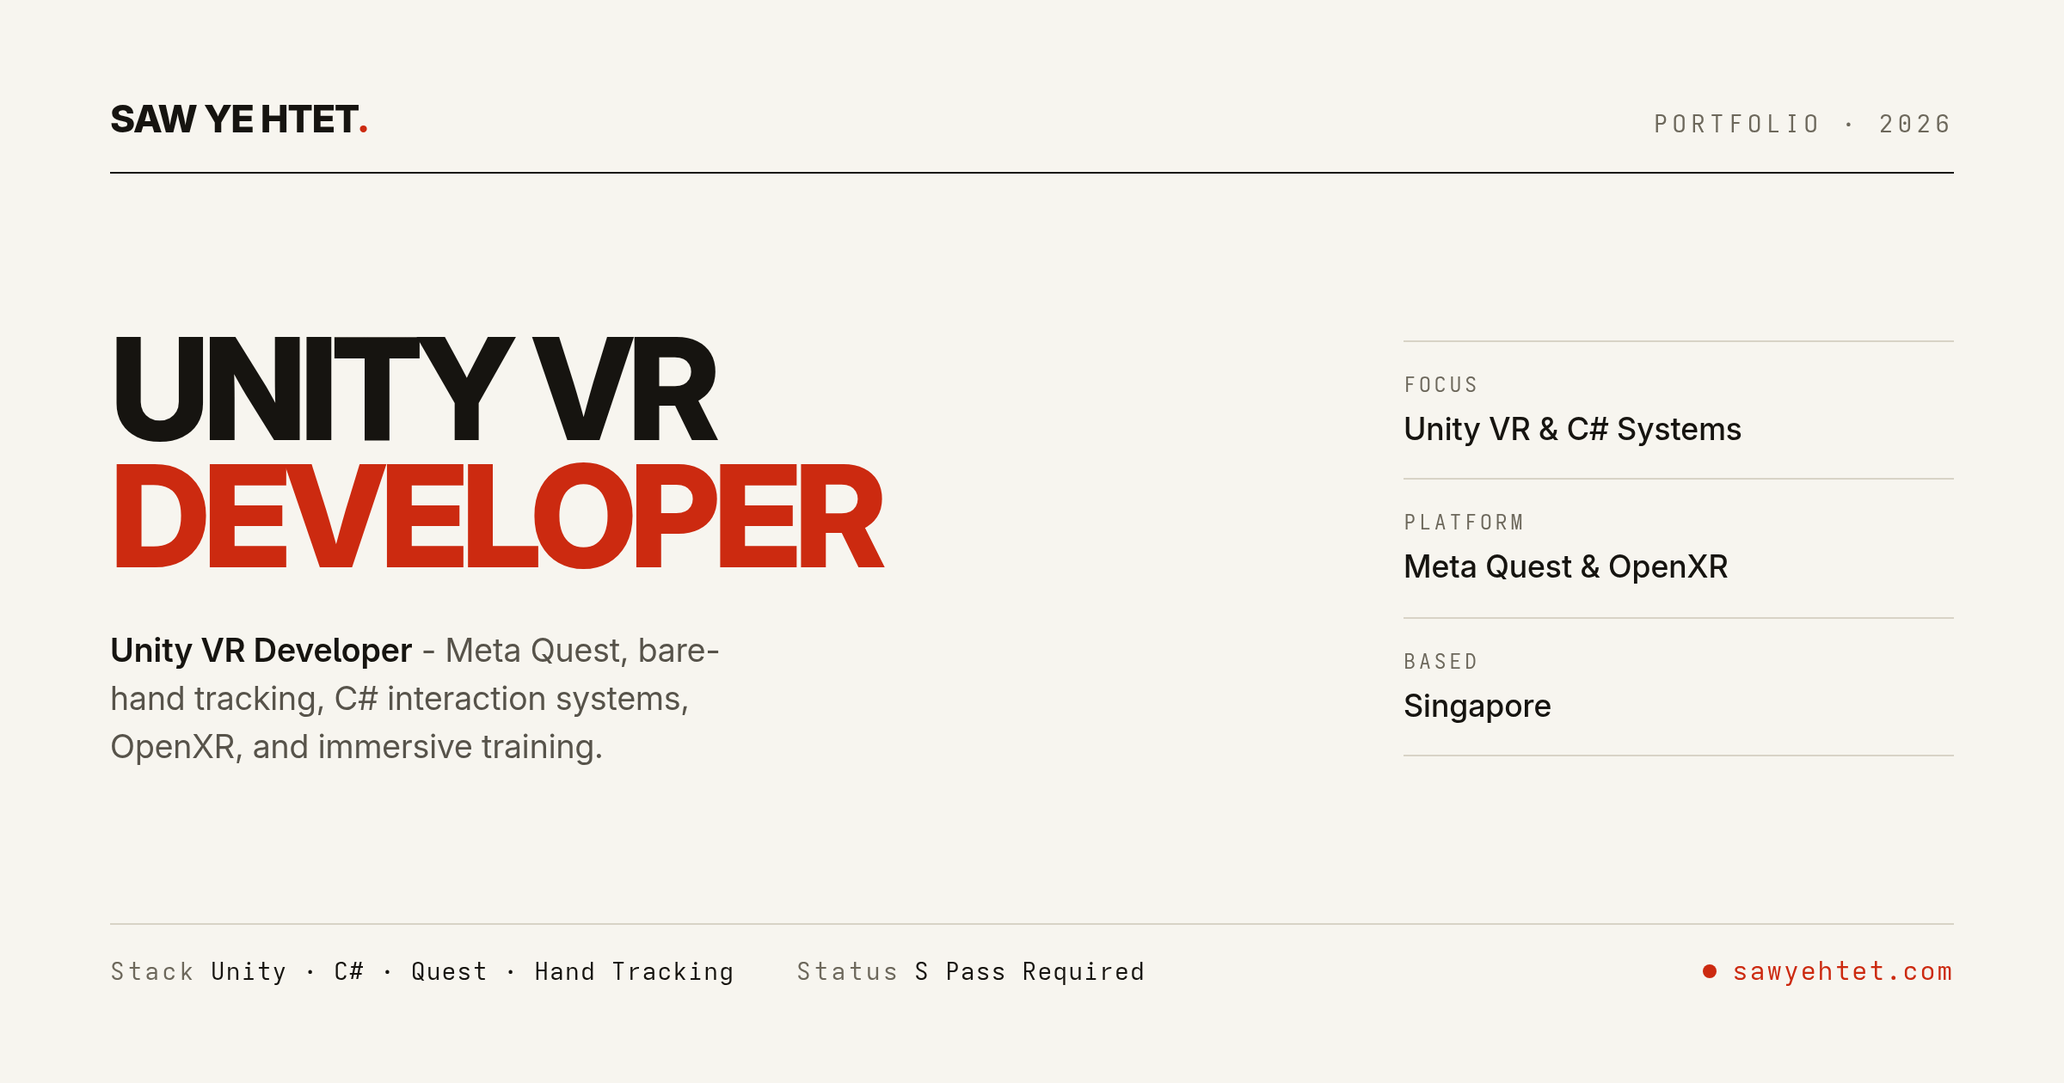
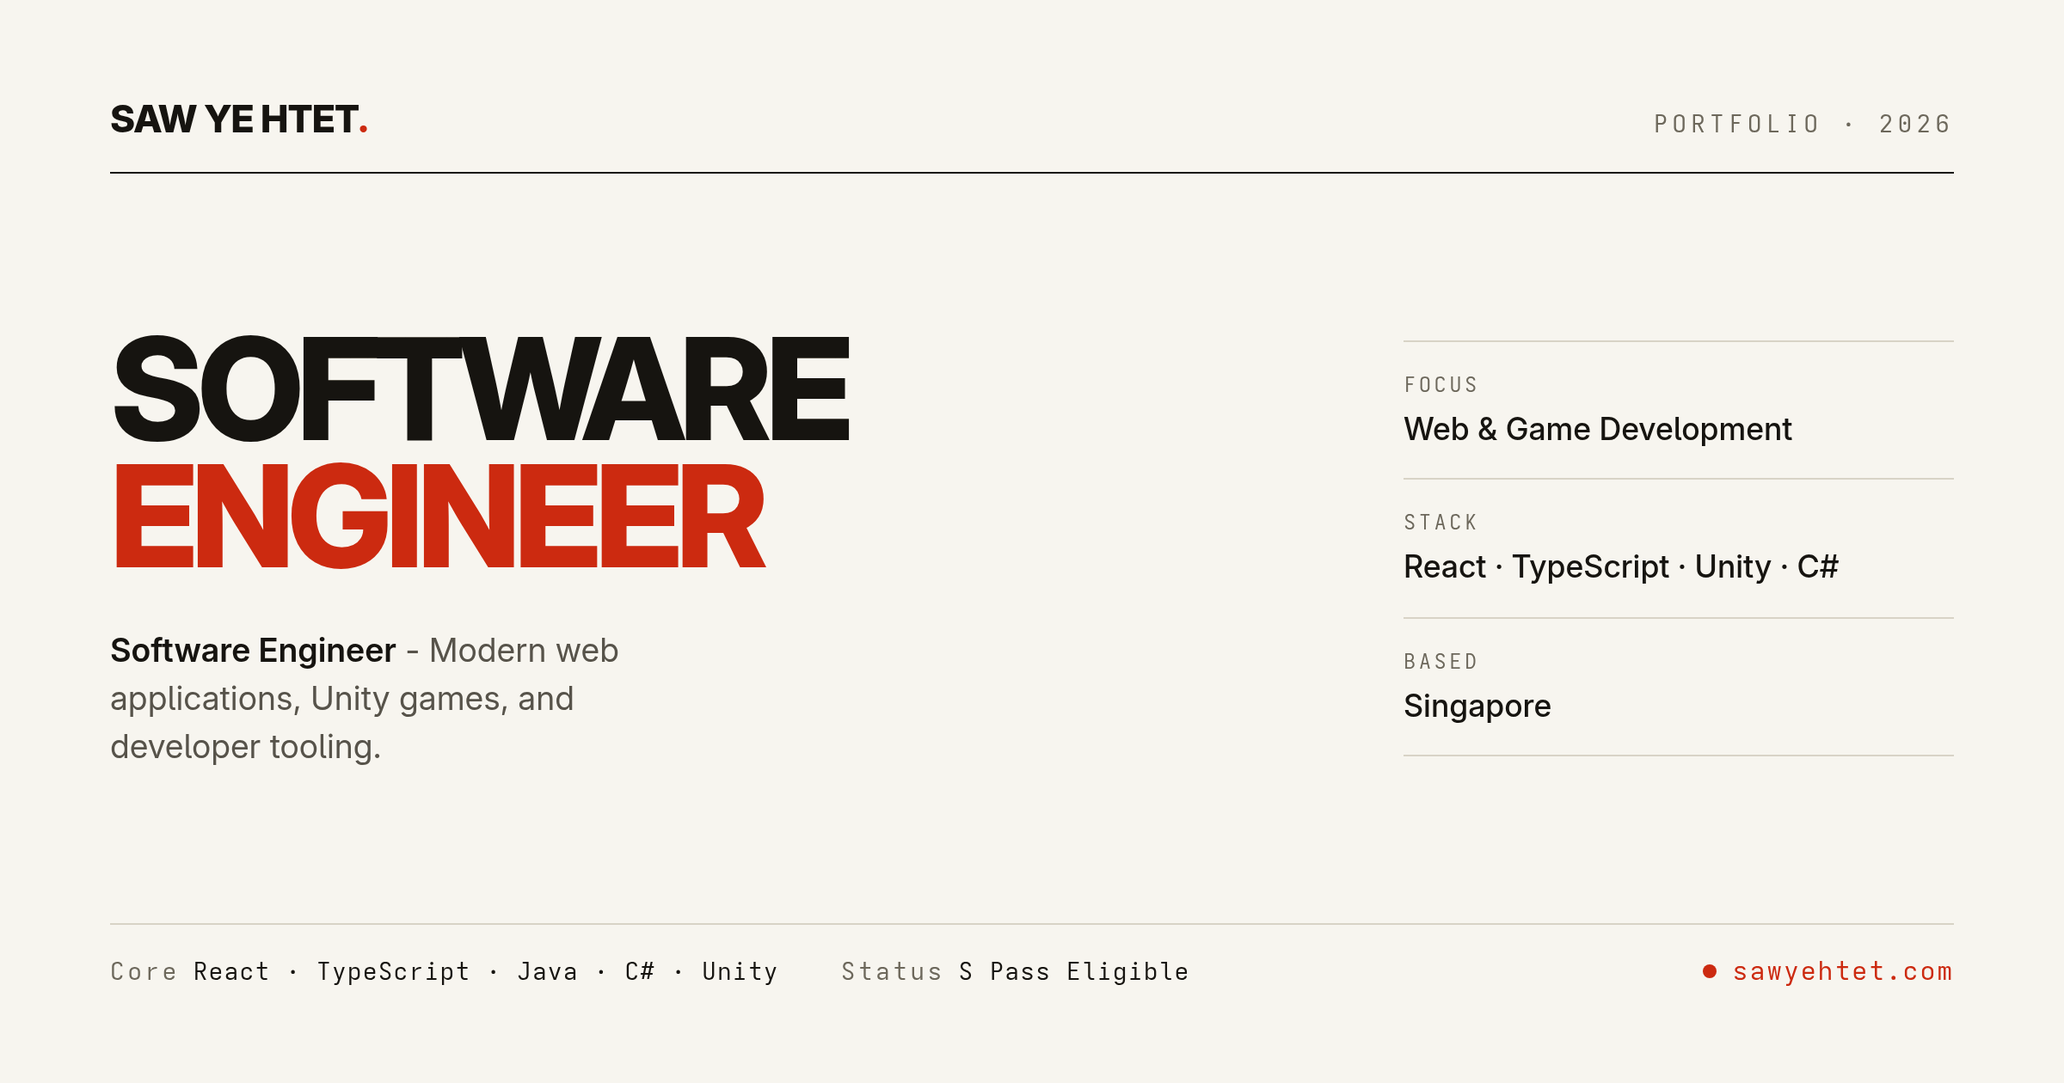
feat: emphasize web development alongside game development and refine technical copy

diff --git a/src/config/editorial-data.ts b/src/config/editorial-data.ts
@@ -7,10 +7,10 @@ export const EXPERIENCE: ExperienceItem[] = [
         period: 'Apr 2025 – Feb 2026',
         location: 'Singapore',
         bullets: [
-            'Sole Unity VR developer for maritime safety research: designed, built, and maintained training scenarios used in live lab sessions on commercial HMDs over 11 months.',
-            'Implemented C# systems for locomotion, grab/interact, and multi-step scenario flow used by researchers and trainees.',
-            'Integrated XR Interaction Toolkit and OpenXR-compatible input, keeping controller and headset behaviour stable across demo days.',
-            'Wrote setup guides and known-issue notes so centre staff could reproduce demos independently.',
+            'Built and maintained interactive maritime emergency scenarios in Unity (C#) deployed on Meta Quest headsets for training research.',
+            'Implemented locomotion, object manipulation, and scenario state flows using XR Interaction Toolkit and OpenXR.',
+            'Ran 12 structured playtest sessions with researchers and trainees, iterating on grab affordances and input boundaries based on user feedback.',
+            'Wrote reproducible hardware setup documentation and troubleshooting notes for centre staff.',
         ],
         stack: [
             'Unity (C#)',
@@ -27,16 +27,18 @@ export const PROJECTS: Project[] = [
     {
         id: 'maritime-vr',
         title: 'Methanol Bunkering Safety VR Training',
-        role: 'Primary Unity VR Developer',
+        role: 'Unity VR Developer',
         summary:
             'Interactive VR safety training scenarios for maritime emergency response and clean fuel handling research at SP CEMS.',
         context:
             'Centre of Excellence in Maritime Safety (CEMS), Singapore Polytechnic (Apr 2025 – Feb 2026)',
         whatIBuilt:
-            'Engineered modular, event-driven C# state machines and OpenXR interaction systems to support multi-headset deployments without duplicating logic. Optimized draw call batching and dynamic LOD tuning to maintain sub-11ms frame rendering (90 FPS) on standalone Quest hardware.',
-        tools: ['Unity 3D', 'C#', 'XR Interaction Toolkit', 'OpenXR', 'Meta Quest HMDs'],
+            'Built modular C# state machines for step-by-step emergency procedures and integrated OpenXR for consistent controller mapping across headsets. Tuned dynamic LOD and draw call batching to maintain 90 FPS on standalone Quest hardware.',
+        technicalDecisions:
+            'Enforced explicit step preconditions in the scenario state machine to prevent trainees from accidentally skipping critical safety protocols during drills.',
+        tools: ['Unity 3D', 'C#', 'XR Interaction Toolkit', 'OpenXR', 'Meta Quest'],
         outcome:
-            'Deployed in live maritime research lab sessions across 12 structured playtests, with operational setup guides authored for staff.',
+            'Deployed in 12 structured lab sessions over 11 months, providing researchers with consistent simulation data and staff with independent setup guides.',
         videoPreview: '/images/projects/methanol-bunkering-preview.mp4',
         links: [
             {
@@ -47,16 +49,18 @@ export const PROJECTS: Project[] = [
     },
     {
         id: 'jewelry-robbery-vr',
-        title: 'Bare-Hand Gesture Physics & Interaction Mechanics (Meta Quest VR)',
+        title: 'Bare-Hand Gesture Interaction Mechanics (Meta Quest VR)',
         role: 'Unity VR Developer',
         summary:
-            'Controller-free VR heist prototype built for Meta Quest using bare-hand tracking and custom gesture physics.',
+            'Controller-free VR prototype built for Meta Quest exploring bare-hand tracking and gesture physics.',
         context: 'Independent VR project focused on controller-free interaction (2025)',
         whatIBuilt:
-            'Engineered custom gesture recognition mechanics, physics-driven grab affordances, and spatial audio feedback using Meta XR SDK without physical controllers, tuning interaction boundaries to eliminate false gesture triggers.',
+            'Implemented custom gesture recognition mechanics, physics-based grab affordances, and spatial audio feedback in C# using the Meta XR SDK without physical controllers.',
+        technicalDecisions:
+            'Added velocity smoothing filters and intentional dwell thresholds to eliminate false-positive pinch triggers during fast hand movements.',
         tools: ['Unity 3D', 'C#', 'Meta XR SDK', 'Hand Tracking', 'Meta Quest'],
         outcome:
-            'Shipped Quest-ready Unity build running at a stable 72/90 FPS with responsive bare-hand interaction mechanics.',
+            'Delivered a responsive controller-free build running at a stable 72/90 FPS with predictable physics handling.',
         videoPreview: '/images/projects/jewelry-robbery-preview.mp4',
         links: [
             {
@@ -67,13 +71,15 @@ export const PROJECTS: Project[] = [
     },
     {
         id: 'tokey',
-        title: 'Tokey – Developer Tooling & Systems Architecture CLI',
-        role: 'Author & Developer',
+        title: 'Tokey – Developer Tooling CLI',
+        role: 'Developer',
         summary:
-            'Real-time per-prompt token cost tracker CLI tool for Claude Code, built to monitor LLM usage directly in developer terminal workflows.',
-        context: 'Independent open-source CLI tool demonstrating Test-Driven Development (TDD) discipline (2026)',
+            'Real-time per-prompt token cost tracker CLI for Claude Code, built to monitor LLM usage directly in developer terminal workflows.',
+        context: 'Independent open-source CLI tool (2026)',
         whatIBuilt:
-            'Engineered an asynchronous Python CLI tool that parses streaming terminal logs in real time to calculate live token usage and per-prompt cost estimations without latency overhead.',
+            'Built an asynchronous Python CLI tool that parses terminal event streams in real time to calculate live token usage and per-prompt cost estimations without latency overhead.',
+        technicalDecisions:
+            'Re-architected from transcript scraping to direct session stream parsing, eliminating fragile external dependencies and simplifying the codebase.',
         tools: ['Python', 'pytest', 'TDD', 'MIT License', 'Git'],
         outcome:
             'Published as an open-source CLI package on GitHub backed by a 293-test unit test suite built with Test-Driven Development (TDD).',
@@ -89,27 +95,69 @@ export const PROJECTS: Project[] = [
             },
         ],
     },
+    {
+        id: 'web-platform',
+        title: 'Modern Web Architecture & Editorial Platform',
+        role: 'Frontend & Web Developer',
+        summary:
+            'Lightweight, SSR-prerendered personal web platform built with React 19, TypeScript, and a vanilla CSS design system.',
+        context: 'Independent web engineering project (2026)',
+        whatIBuilt:
+            'Built a lightweight single-page web app with Node-based static SSR prerendering for instant first paint, responsive typography, semantic accessibility, and native HTML constraint validation.',
+        technicalDecisions:
+            'Built without heavy UI or validation libraries to keep the total client bundle under 25 kB while maintaining 100/100 Lighthouse performance.',
+        tools: ['React 19', 'TypeScript', 'Vite', 'Vanilla CSS', 'SSR Prerender', 'Vitest', 'GitHub Actions'],
+        outcome:
+            'Delivered zero-layout-shift rendering, deterministic build-time feed and sitemap generation, and clean CI test gates.',
+        links: [
+            {
+                label: 'View on GitHub',
+                href: 'https://github.com/sawyehtet-dev/portfolio',
+            },
+        ],
+    },
 ];
 
 export const SKILLS: SkillGroup[] = [
     {
-        category: 'Languages',
-        tools: ['C#', 'Java', 'Python', 'TypeScript', 'JavaScript', 'SQL'],
+        category: 'Web & Backend',
+        tools: [
+            'React',
+            'TypeScript',
+            'JavaScript',
+            'Node.js',
+            'REST APIs',
+            'Java',
+            'SQL',
+            'HTML5 / CSS3',
+        ],
     },
     {
-        category: 'XR & Interactive 3D',
+        category: 'Game & XR Development',
         tools: [
-            'Unity',
+            'Unity 3D',
+            'C#',
             'XR Interaction Toolkit',
             'OpenXR',
             'Meta Quest',
             'Hand Tracking',
-            'HMD Build & Deploy',
+            'HMD Deployment',
         ],
     },
     {
+        category: 'Programming Languages',
+        tools: ['Java', 'C#', 'TypeScript', 'JavaScript', 'Python', 'SQL'],
+    },
+    {
         category: 'Engineering & Tools',
-        tools: ['Test-Driven Development (TDD)', 'pytest', 'Git & GitHub', 'Linux CLI', 'React', 'Vite', 'Postman'],
+        tools: [
+            'Test-Driven Development (TDD)',
+            'pytest',
+            'Git & GitHub',
+            'Linux CLI',
+            'Postman',
+            'Vite',
+        ],
     },
 ];
 

diff --git a/index.html b/index.html
@@ -5,7 +5,7 @@
         <meta name="viewport" content="width=device-width, initial-scale=1.0, viewport-fit=cover" />
         <meta
             name="description"
-            content="Software Engineer in Singapore specializing in C# architecture, Unity VR simulation systems, Python tooling, and interactive systems."
+            content="Software Engineer in Singapore building full-stack web applications, Unity game &amp; VR systems, and developer tooling."
         />
         <meta name="robots" content="index, follow" />
         <meta name="application-name" content="Saw Ye Htet Portfolio" />
@@ -17,7 +17,7 @@
         <meta property="og:title" content="Saw Ye Htet - Software Engineer" />
         <meta
             property="og:description"
-            content="Software Engineer in Singapore specializing in C# architecture, Unity VR simulation, and developer tooling. View case studies and resume."
+            content="Software Engineer in Singapore building modern web applications, Unity games, and developer tooling. View case studies and resume."
         />
         <meta property="og:image" content="https://sawyehtet.com/images/og-preview.png" />
         <meta property="og:image:width" content="2400" />
@@ -29,7 +29,7 @@
         <meta name="twitter:title" content="Saw Ye Htet - Software Engineer" />
         <meta
             name="twitter:description"
-            content="Software Engineer in Singapore specializing in C# architecture, Unity VR simulation, and developer tooling. View case studies and resume."
+            content="Software Engineer in Singapore building modern web applications, Unity games, and developer tooling. View case studies and resume."
         />
         <meta name="twitter:url" content="https://sawyehtet.com/" />
         <meta name="twitter:image" content="https://sawyehtet.com/images/og-preview.png" />
@@ -99,7 +99,7 @@
                 "image": "https://sawyehtet.com/images/profile-picture.webp",
                 "email": "sawyehtet.dev@gmail.com",
                 "jobTitle": "Software Engineer",
-                "description": "Singapore Polytechnic IT graduate (2026) and Software Engineer specializing in C# systems architecture, Unity VR simulation, and developer tooling.",
+                "description": "Singapore Polytechnic IT graduate (2026) and Software Engineer specializing in full-stack web applications, C# systems architecture, Unity game and VR simulation, and developer tooling.",
                 "address": {
                     "@type": "PostalAddress",
                     "addressCountry": "SG"
@@ -119,16 +119,19 @@
                     }
                 },
                 "knowsAbout": [
-                    "Unity 3D",
+                    "Web Development",
+                    "React",
+                    "TypeScript",
+                    "JavaScript",
+                    "Java",
                     "C#",
+                    "Unity 3D",
                     "Virtual Reality",
                     "Meta Quest",
-                    "Hand Tracking",
-                    "XR Interaction Toolkit",
-                    "OpenXR",
-                    "Immersive Training",
+                    "REST APIs",
+                    "SQL",
                     "Python",
-                    "TypeScript"
+                    "Test-Driven Development (TDD)"
                 ],
                 "sameAs": [
                     "https://github.com/sawyehtet-dev",
@@ -168,11 +171,11 @@
             >
                 <h1 style="font-size: 26px; margin: 0 0 4px; font-weight: 700">Saw Ye Htet</h1>
                 <p style="margin: 0 0 16px; font-size: 17px; opacity: 0.85; font-weight: 600">
-                    Unity VR Developer
+                    Software Engineer · Web &amp; Game Development
                 </p>
                 <p style="margin: 0 0 24px; font-size: 14px; opacity: 0.7; line-height: 1.6">
-                    Singapore Polytechnic IT graduate (2026) and Unity VR Developer specializing in
-                    Meta Quest, bare-hand tracking, C# interaction systems, and immersive training.
+                    Singapore Polytechnic IT graduate (2026) and Software Engineer specializing in
+                    modern web applications, Unity game and VR systems, and developer tooling.
                 </p>
                 <div style="display: flex; gap: 10px; flex-wrap: wrap; margin-bottom: 24px">
                     <a
@@ -201,7 +204,7 @@
                             font-size: 14px;
                         "
                     >
-                        VR Resume PDF
+                        Resume PDF
                     </a>
                     <a
                         href="https://github.com/sawyehtet-dev"

diff --git a/src/site/WorkPage.tsx b/src/site/WorkPage.tsx
@@ -24,8 +24,8 @@ function Hero() {
 
             <div className="ed-hero-body">
                 <p className="ed-hero-summary">
-                    Software engineer based in Singapore building Unity games, interactive systems, and software tooling.
-                    I work across game mechanics and C# architecture, with XR &amp; immersive VR turning out to be what I do best.
+                    Software engineer building full-stack web applications, Unity VR simulations, and developer tools.
+                    I focus on writing clear, testable code across TypeScript, Java, Python, and C#, with practical experience in real-time systems and OpenXR.
                 </p>
 
                 <div className="ed-hero-actions">
@@ -52,7 +52,7 @@ export function WorkPage() {
             <title>Saw Ye Htet - Software Engineer</title>
             <meta
                 name="description"
-                content="Software Engineer in Singapore specializing in C# architecture, Unity VR simulation systems, and software tooling."
+                content="Software Engineer in Singapore building full-stack web applications, Unity game & VR systems, and developer tooling."
             />
             <Nav />
             <main id="main-content">

diff --git a/src/site/Home.tsx b/src/site/Home.tsx
@@ -25,8 +25,8 @@ function Masthead() {
                 <span className="dot">.</span>
             </h1>
             <p className="ed-masthead-intro">
-                I build Unity VR experiences and software tools. These are notes on interaction
-                design, C#, testing, and what I&apos;m learning along the way.
+                I build web applications, Unity games, and developer tools. These are notes on
+                full-stack development, real-time systems, software architecture, and testing.
             </p>
             <Link className="ed-home-cta" to="/">
                 My experience and projects are on the <strong>home page</strong>
@@ -78,7 +78,7 @@ export function Home() {
             <title>Saw Ye Htet - Writing</title>
             <meta
                 name="description"
-                content="Writing by Saw Ye Htet - notes on Unity VR development, interactive C# systems, and software engineering. The portfolio lives on the home page."
+                content="Writing by Saw Ye Htet - notes on full-stack web development, Unity games, and software engineering. The portfolio lives on the home page."
             />
             <Nav />
             <main id="main-content">

diff --git a/src/config/profile.ts b/src/config/profile.ts
@@ -1,15 +1,15 @@
-// Primary focus: Unity VR Developer role (Meta Quest, Hand Tracking, Immersive Training).
+// Primary focus: Full-Stack Web & Game Development (React, TypeScript, Java, C#, Unity, XR Systems).
 // Kept in sync with Saw_Ye_Htet_Unity_VR_Developer_Resume.pdf.
 export const PROFILE = {
     name: 'Saw Ye Htet',
     role: 'Software Engineer',
-    focus: 'Unity & Game Development · Specialized in XR Systems & Immersive VR',
+    focus: 'Full-Stack Web & Game Development · Modern Web Applications & XR Systems',
     education: 'Diploma in Information Technology, Singapore Polytechnic (2023–2026)',
     email: 'sawyehtet.dev@gmail.com',
     resumePath: '/resume/Saw_Ye_Htet_Unity_VR_Developer_Resume.pdf',
     availability: 'S Pass Eligible · Available Immediately',
     location: 'Singapore / Remote-friendly',
-    primaryStack: ['C#', 'Unity', 'Java', 'Python', 'OpenXR', 'SQL'],
+    primaryStack: ['TypeScript', 'React', 'Java', 'C#', 'Unity', 'Python', 'SQL'],
 };
 
 export const SOCIAL_LINKS = [

diff --git a/src/site/sections/Resume.tsx b/src/site/sections/Resume.tsx
@@ -14,8 +14,8 @@ export function Resume() {
                         {PROFILE.name} - {PROFILE.role}
                     </h3>
                     <p className="ed-resume-desc">
-                        Full one-page PDF details experience at CEMS, Meta Quest VR projects,
-                        technical stack, and education.
+                        Full one-page PDF details full-stack web and game development projects,
+                        experience at CEMS, technical stack, and education.
                     </p>
                     <a
                         className="ed-btn ed-btn-primary"

diff --git a/src/site/editorial.css b/src/site/editorial.css
@@ -592,10 +592,17 @@ body:has(.ed) {
     gap: 16px;
 }
 
-@media (min-width: 640px) {
+@media (min-width: 600px) {
     .ed-skills-grid {
-        grid-template-columns: repeat(3, 1fr);
-        gap: 24px;
+        grid-template-columns: repeat(2, 1fr);
+        gap: 20px;
+    }
+}
+
+@media (min-width: 960px) {
+    .ed-skills-grid {
+        grid-template-columns: repeat(4, 1fr);
+        gap: 20px;
     }
 }
 

diff --git a/CLAUDE.md b/CLAUDE.md
@@ -27,11 +27,11 @@ Markdown in `src/site/blog/posts/*.md` (loader: `src/site/blog/posts.ts`).
 
 ## 🎯 Positioning (content rule - do not drift)
 
-This site positions Saw Ye Htet as a **Software Engineer specializing in C#, Unity Game/XR Development, and Systems & Tooling**.
+This site positions Saw Ye Htet as a **Software Engineer specializing in Full-Stack Web Development, Unity Game/XR Systems, and Software Tooling**.
 
 - **Primary positioning:** Software Engineer
-- **Core Narrative:** Software engineer based in Singapore building Unity games, interactive systems, and software tooling. Works across game mechanics, C# architecture, and Python/TDD developer tooling, with XR & immersive VR turning out to be what he excels at most.
-- **Target Roles:** Software Engineer, Junior Backend / C# / Java Developer, Unity / XR Developer, Systems Developer.
+- **Core Narrative:** Software engineer based in Singapore building modern web applications, Unity games, and developer tooling. Works across full-stack web technologies and interactive real-time systems, combining clean frontend/backend architecture with robust test-driven engineering.
+- **Target Roles:** Software Engineer, Full-Stack / Backend / Java / Web Developer, Unity / XR Developer, Systems Developer.
 - **Background:** Fresh graduate with one year of technical engineering experience at SP CEMS (Methanol Bunkering VR research). Singapore Polytechnic IT Diploma, 2026. S-Pass eligible.
 - **Typography Rule:** Never use em dashes (`—`) anywhere in code, markdown, comments, or documentation. Use standard hyphens (`-`), en dashes (`–`), colons (`:`), or pipes (`|`).
 - Canonical résumé content lives in two `.docx` lanes (Desktop Support, Software QA) in the
